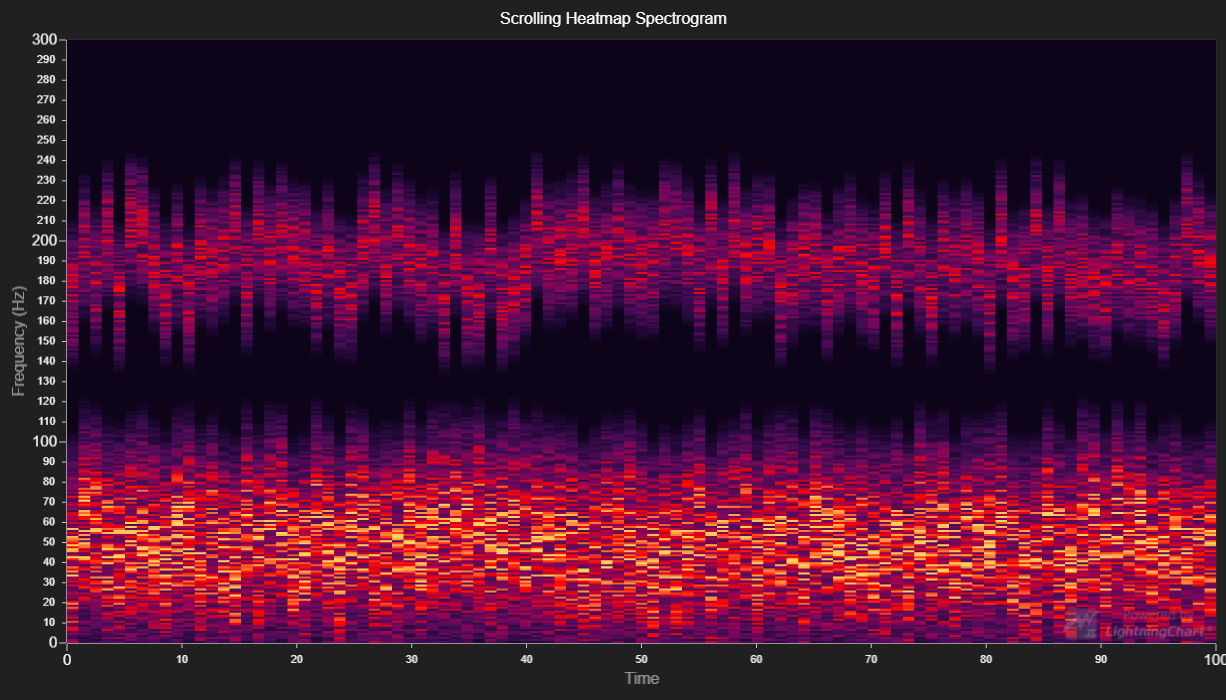
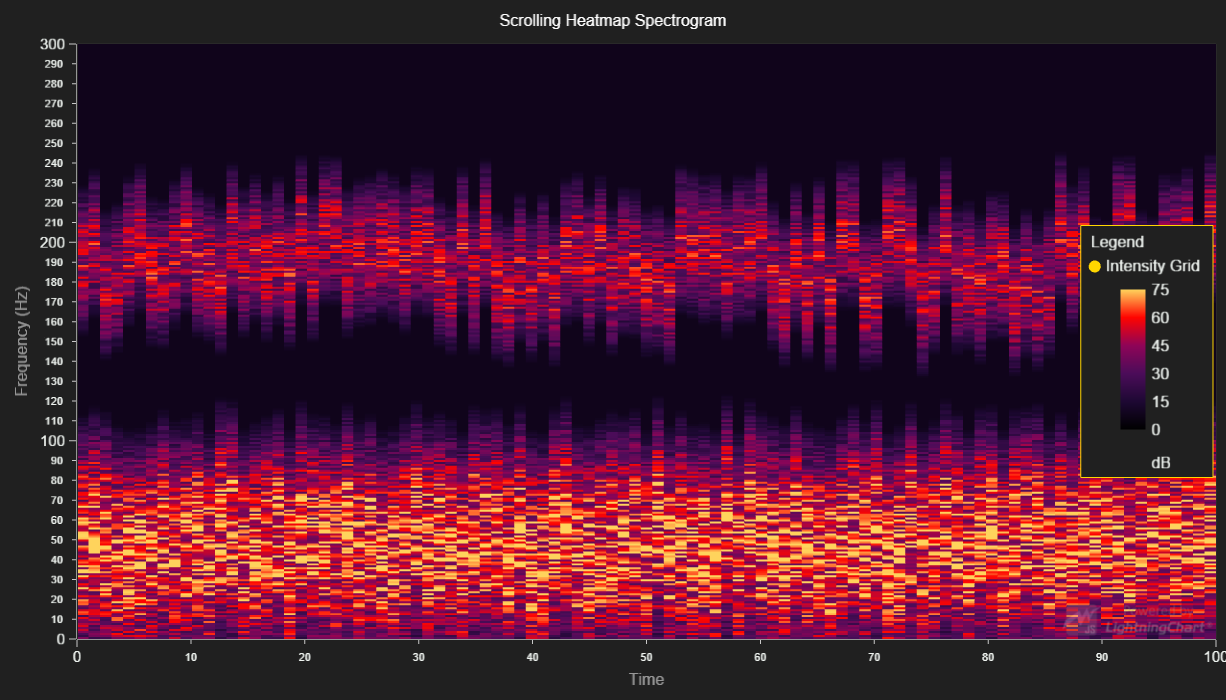
LCJS 3.0.0

diff --git a/src/index.js b/src/index.js
@@ -24,20 +24,20 @@ const dataSampleSize = 300
 // Length of data history.
 const dataHistoryLength = 100
 
-
 // Setup PalettedFill for dynamically coloring Heatmap by Intensity values.
 const lut = new LUT( {
     steps: [
         { value: 0, color: ColorHSV(0, 1, 0) },
-        { value: 100 * (1 / 6), color: ColorHSV(270, 0.84, 0.2) },
-        { value: 100 * (2 / 6), color: ColorHSV(289, 0.86, 0.35) },
-        { value: 100 * (3 / 6), color: ColorHSV(324, 0.97, 0.56) },
-        { value: 100 * (4 / 6), color: ColorHSV(1, 1, 1) },
-        { value: 100 * (5 / 6), color: ColorHSV(44, 0.64, 1) }
+        { value: 15, color: ColorHSV(270, 0.84, 0.2) },
+        { value: 30, color: ColorHSV(289, 0.86, 0.35) },
+        { value: 45, color: ColorHSV(324, 0.97, 0.56) },
+        { value: 60, color: ColorHSV(1, 1, 1) },
+        { value: 75, color: ColorHSV(44, 0.64, 1) }
     ],
+    units: 'dB',
     interpolate: true
 } )
-const paletteFill = new PalettedFill( { lut, lookUpProperty: 'y' } )
+const paletteFill = new PalettedFill( { lut, lookUpProperty: 'value' } )
 
 
 // Create ChartXY.
@@ -70,6 +70,9 @@ const heatmapSeries = chartXY.addHeatmapSeries(intensityOptions)
     .setFillStyle( paletteFill )
     .setMouseInteractions( false )
     .setCursorEnabled( false )
+
+// Add LegendBox to chart.
+const legend = chartXY.addLegendBox().add(chartXY)
 
 // Stream in continous data.
 createSpectrumDataGenerator()

diff --git a/README.md b/README.md
@@ -78,8 +78,8 @@ Direct developer email support can be purchased through a [Support Plan][4] or b
 © Arction Ltd 2009-2020. All rights reserved.
 
 
-[Intensity Series Types]: https://www.arction.com/lightningchart-js-api-documentation/v2.2.0/globals.html#intensityseriestypes
-[Intensity Grid]: https://www.arction.com/lightningchart-js-api-documentation/v2.2.0/classes/intensitygridseries.html
-[Paletted Fill Style]: https://www.arction.com/lightningchart-js-api-documentation/v2.2.0/classes/palettedfill.html
-[LUT]: https://www.arction.com/lightningchart-js-api-documentation/v2.2.0/classes/lut.html
+[Intensity Series Types]: https://www.arction.com/lightningchart-js-api-documentation/v3.0.0/globals.html#intensityseriestypes
+[Intensity Grid]: https://www.arction.com/lightningchart-js-api-documentation/v3.0.0/classes/intensitygridseries.html
+[Paletted Fill Style]: https://www.arction.com/lightningchart-js-api-documentation/v3.0.0/classes/palettedfill.html
+[LUT]: https://www.arction.com/lightningchart-js-api-documentation/v3.0.0/classes/lut.html
 
